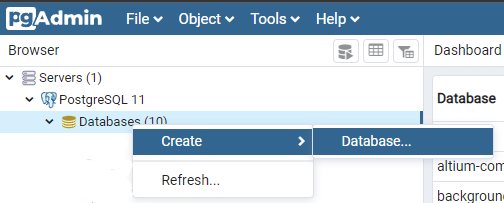
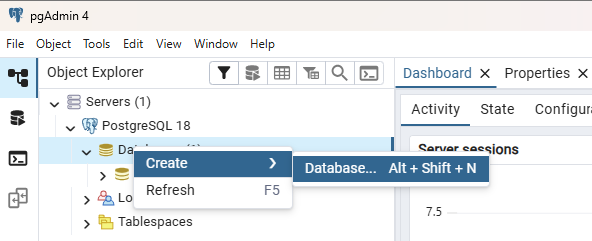
update

diff --git a/README.md b/README.md
@@ -7,7 +7,9 @@ hoặc sang bất kỳ cơ sở dữ liệu PostgreSQL được lưu trữ nào 
 
 ### Cách thức hoạt động
 
-![<img width="20" height="20"/>](assets/diagram.png)
+<p align="center">
+  <img src="assets/diagram.png" alt="Sơ đồ hoạt động của migrator" width="650" />
+</p>
 
 1. Người dùng chạy lệnh Docker. Nếu image của ứng dụng chưa có trong bộ nhớ cục bộ, Docker sẽ tự động tải image này từ Docker Hub công khai.
 2. Container sẽ khởi động với thông tin kết nối cơ sở dữ liệu do người dùng cung cấp hoặc sử dụng cấu hình mặc định dành cho môi trường phát triển cục bộ.
@@ -21,27 +23,28 @@ hoặc sang bất kỳ cơ sở dữ liệu PostgreSQL được lưu trữ nào 
 1. Trước tiên, tải xuống và cài đặt Docker tại đây: [Tải Docker Desktop cho Windows](https://www.docker.com/products/docker-desktop/)
 2. Sau khi cài đặt Docker, mở Command Prompt và kiểm tra bằng lệnh: `docker ps`
 3. Tiếp theo, cần đăng ký/đăng nhập Docker Hub. Mở Docker Desktop rồi chọn `Sign in`:
-
-![<img width="20" height="20"/>](assets/docker_config.png)
-
 4. Kiểm tra trạng thái đăng nhập bằng lệnh: `docker login`
 
 ![<img width="20" height="20"/>](assets/docker_login.png)
 
 5. Sau khi Docker đã được cấu hình, cần cài đặt PostgreSQL cho môi trường cục bộ.
-    - ***Phương án 1.*** Chạy cơ sở dữ liệu trong container, xem hướng dẫn [tại đây](https://hub.docker.com/_/postgres)
+    - ***Phương án 1.*** Chạy cơ sở dữ liệu trong container, xem hướng dẫn [this](https://hub.docker.com/_/postgres)
       - Chạy lệnh: `docker pull postgres` để tải image PostgreSQL mới nhất.
       - Chạy image cơ sở dữ liệu:
       ```
         docker run -d -p 5432:5432        --name dev-postgres         -e POSTGRES_PASSWORD=postgres         -e POSTGRES_USER=postgres         -e POSTGRES_DB=altium-components         postgres
       ```
-    - ***Phương án 2.*** Tải xuống và cài đặt PostgreSQL cho môi trường phát triển cục bộ [tại đây](https://www.postgresql.org/download/windows/) -> `Download the installer`
-        - Tải xuống và cài đặt công cụ pgAdmin từ [đây](https://www.pgadmin.org/)
+    - ***Phương án 2.*** Tải xuống và cài đặt Postgres để phát triển cục bộ [here](https://www.enterprisedb.com/downloads/postgres-postgresql-downloads) -> `Download the installer`.
+        - Tải xuống và cài đặt công cụ PgAdmin từ [here](https://www.pgadmin.org/).
         - Tạo một cơ sở dữ liệu trống:
-          - ![<img width="20" height="20"/>](assets/database.png)
-        - Trong trường `Database`, nhập: `altium-components` -> `Save`
+          <p align="center">
+            <img src="assets/database.png" alt="Tạo cơ sở dữ liệu PostgreSQL" width="650" />
+          </p>
+        - Trong `Database` ô này, hãy viết: `Altium-Components` -> `Save`
         - Kiểm tra để đảm bảo cơ sở dữ liệu trống đã được tạo:
-          - ![<img width="20" height="20"/>](assets/empty_database.png)
+          <p align="center">
+            <img src="assets/empty_database.png" alt="Đảm bảo cơ sở dữ liệu trống" width="650" />
+          </p>
 
 6. ***Tùy chọn:*** Tạo schema cho cơ sở dữ liệu. Nếu không tạo, schema `altium` sẽ được tạo mặc định và được sử dụng cho tất cả các lần migration.
 7. Sau khi đã hoàn tất cấu hình và tạo cơ sở dữ liệu trống, chạy ứng dụng.
